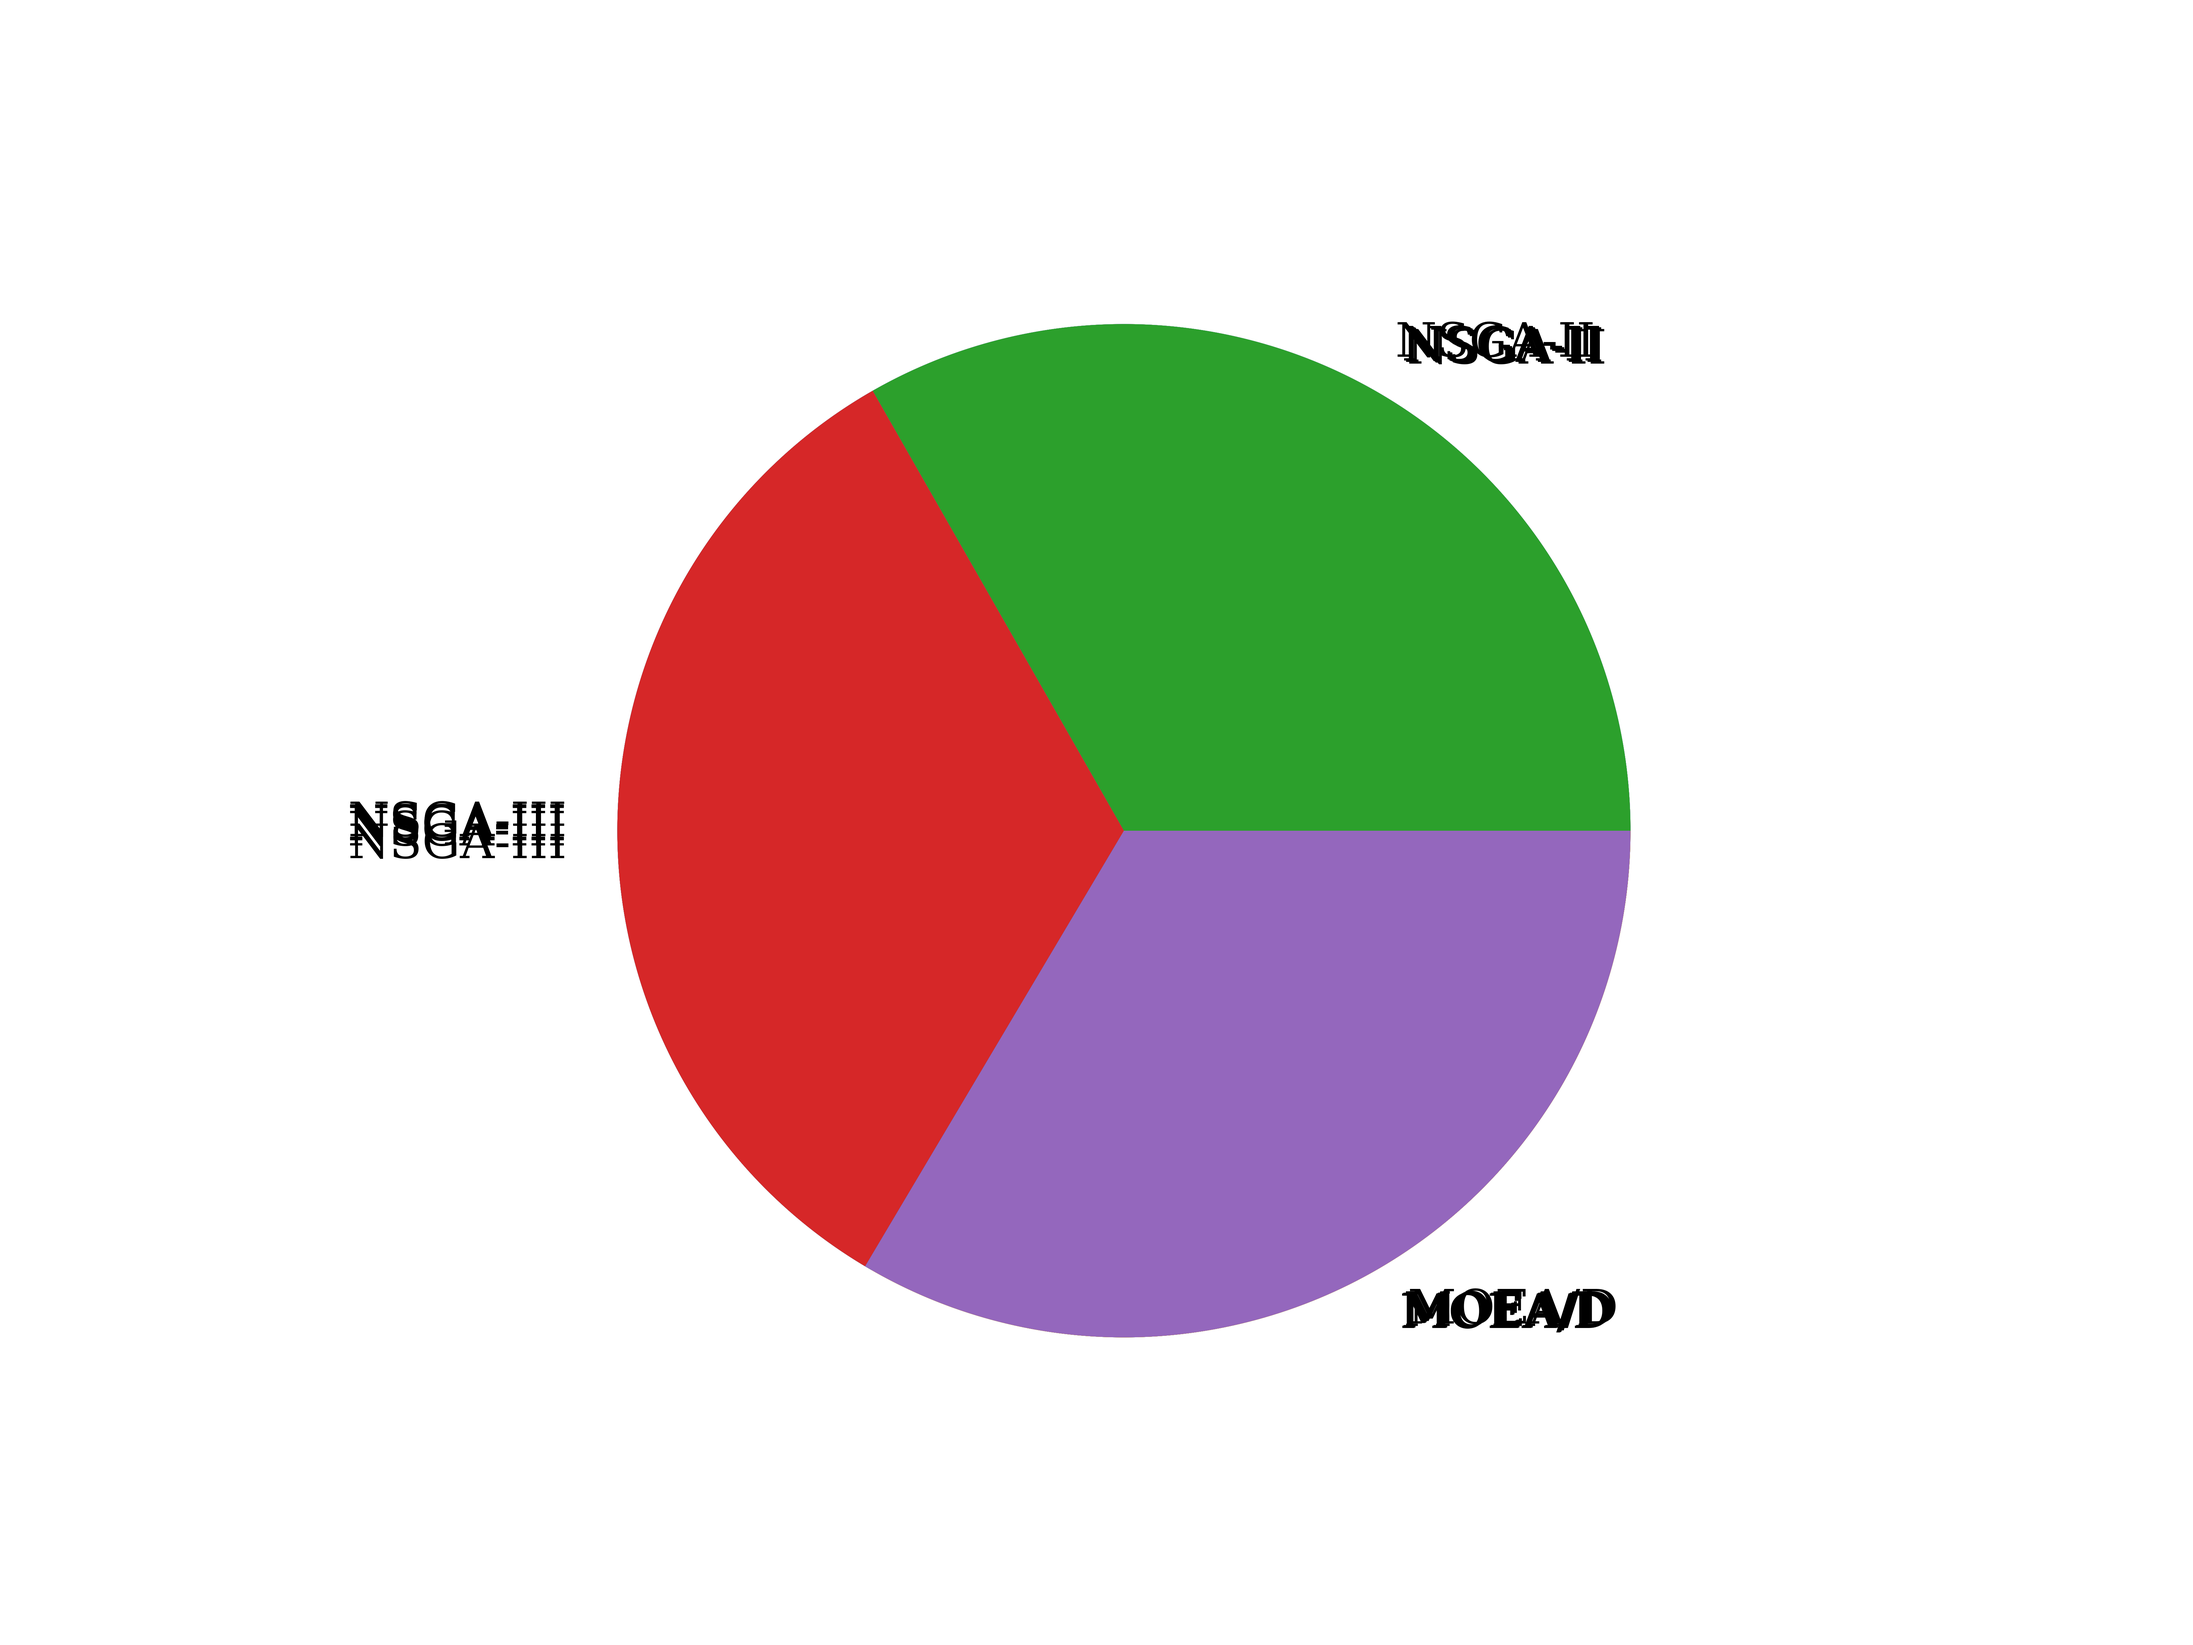
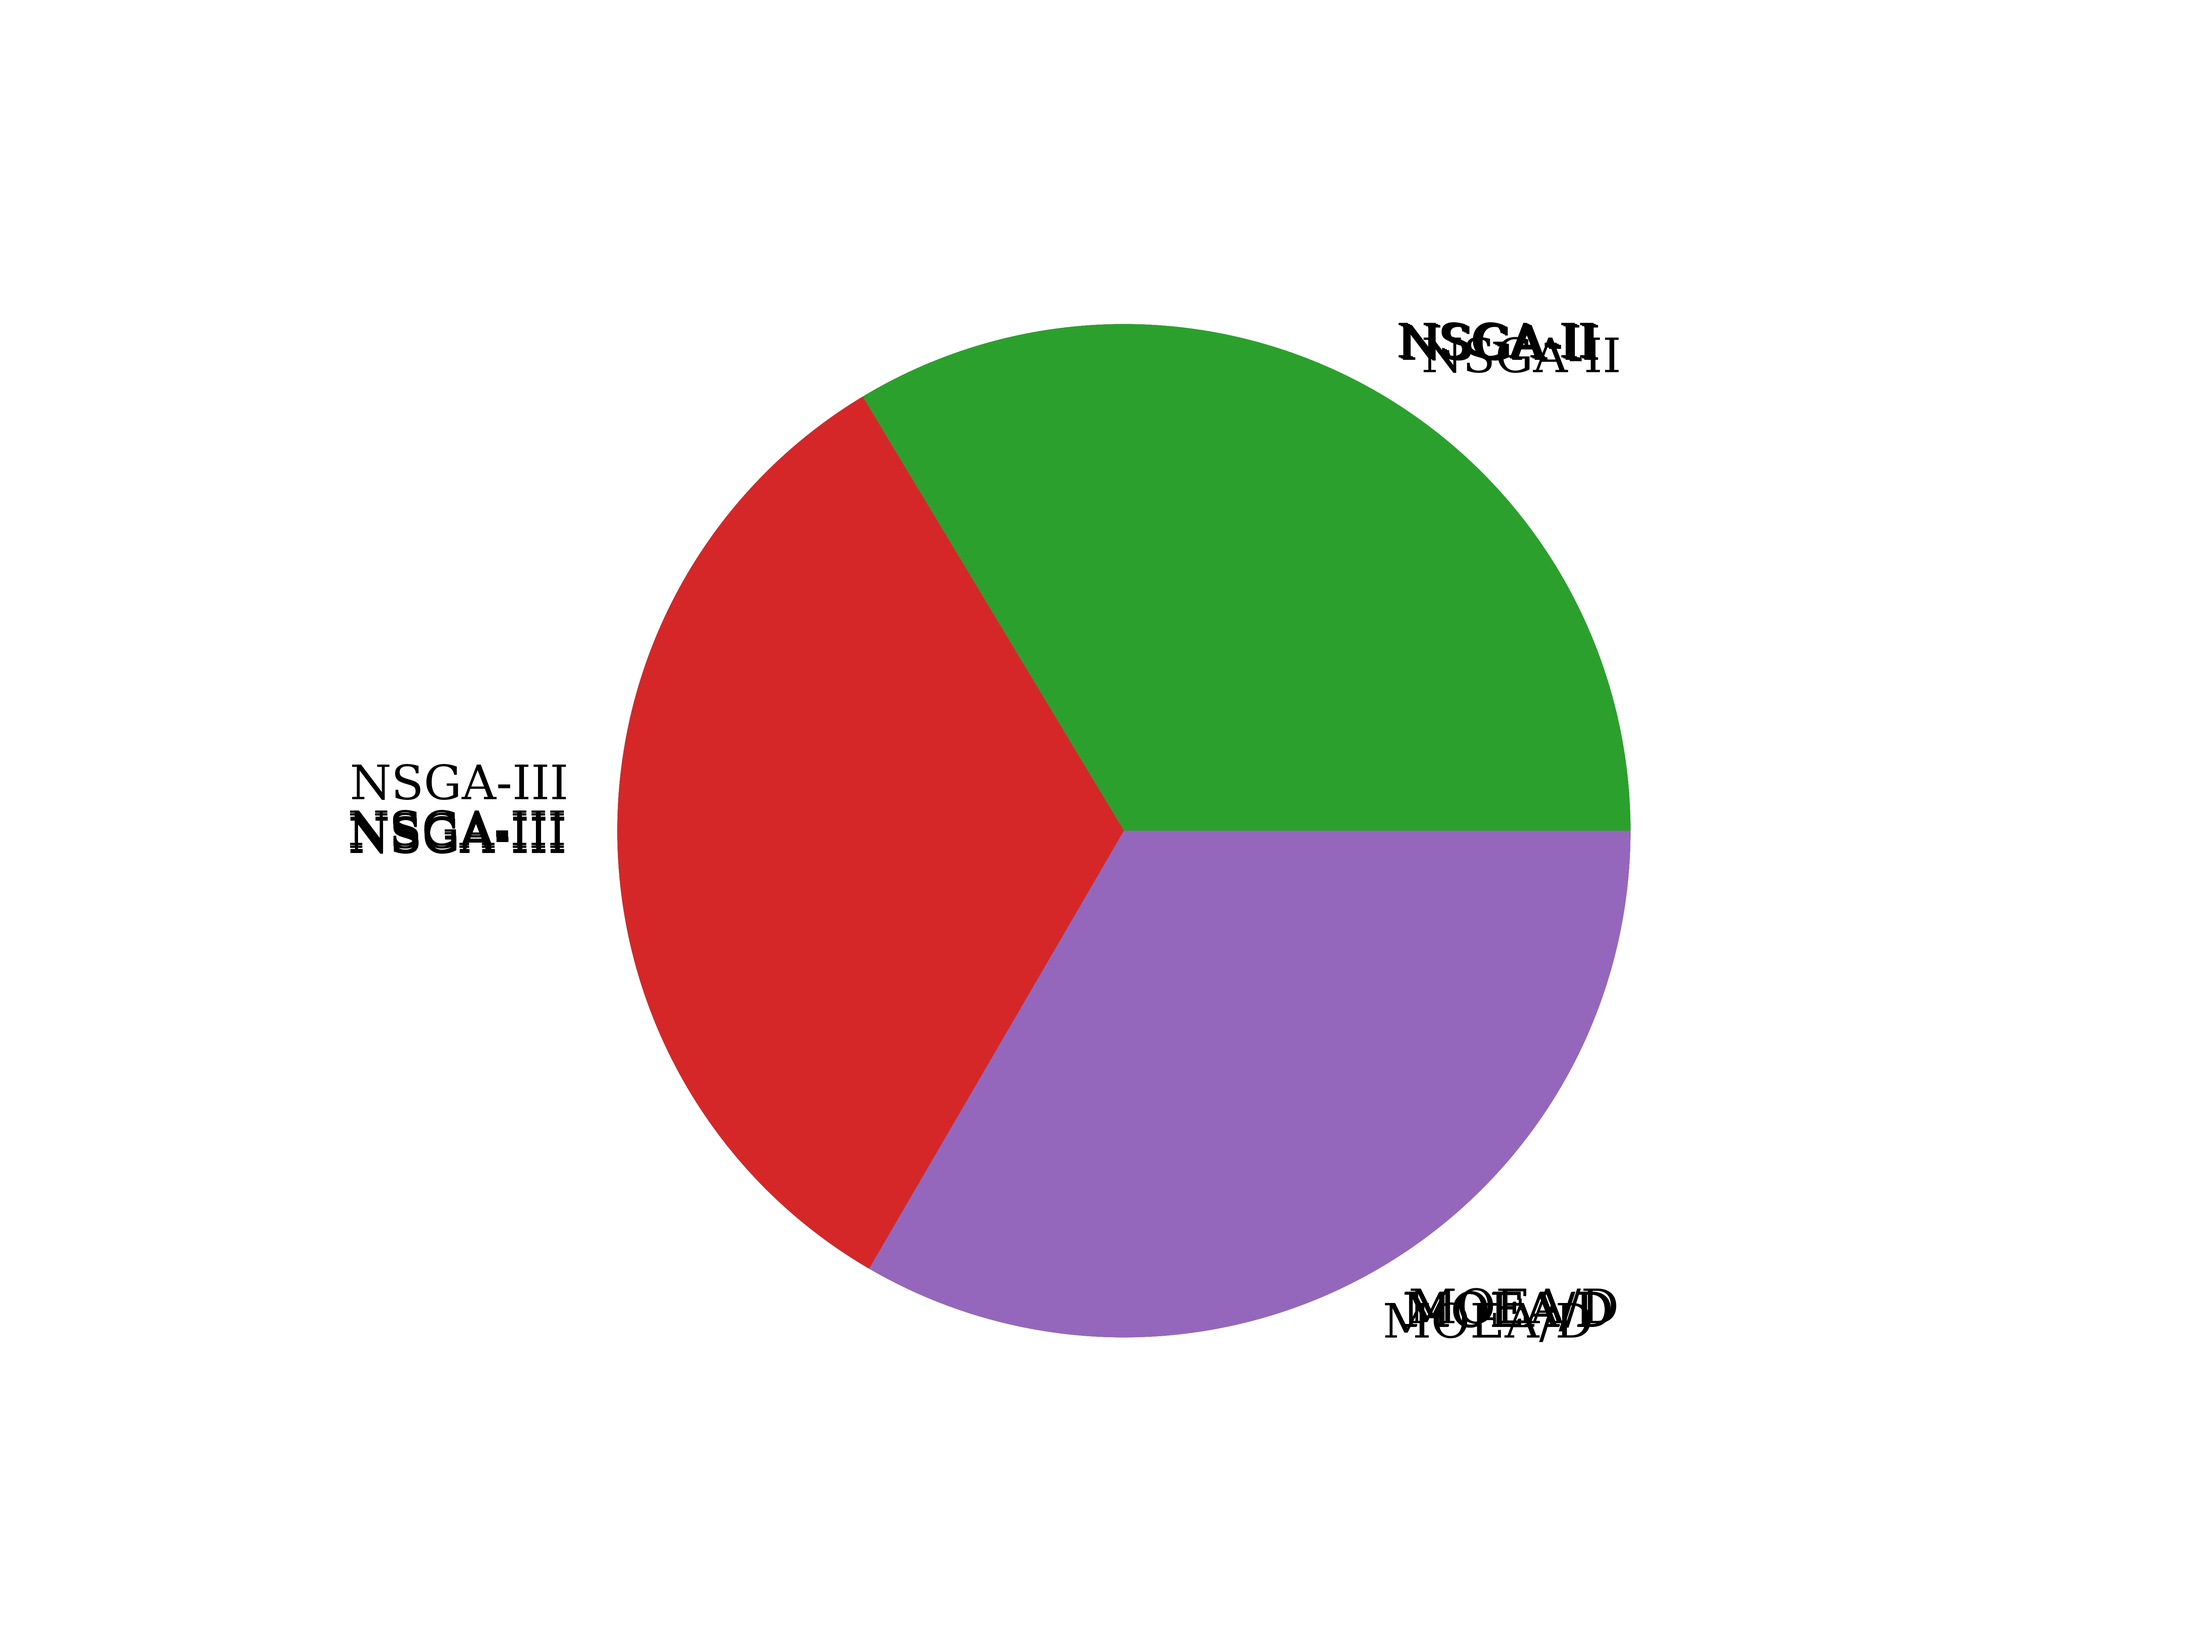
0.8.7.5

diff --git a/metric_visualizer/metric_visualizer.py b/metric_visualizer/metric_visualizer.py
@@ -181,7 +181,11 @@ class MetricVisualizer:
         return self
 
     def box_plot(
-        self, by="trial", engine="matplotlib", save_path=None, show=True, **kwargs
+        self, by="trial",
+            engine="matplotlib",
+            save_path=None,
+            show=True,
+            **kwargs
     ):
         """
         Draw a box plot based on the metric name and trial name.
@@ -328,7 +332,12 @@ class MetricVisualizer:
             return save_path
 
     def violin_plot(
-        self, by="trial", engine="matplotlib", save_path=None, show=True, **kwargs
+        self,
+            by="trial",
+            engine="matplotlib",
+            save_path=None,
+            show=True,
+            **kwargs
     ):
         """
         Draw a violin plot based on the metric name and trial name.
@@ -465,7 +474,12 @@ class MetricVisualizer:
             return save_path
 
     def pie_plot(
-        self, by="trial", engine="matplotlib", save_path=None, show=True, **kwargs
+        self,
+            by="trial",
+            engine="matplotlib",
+            save_path=None,
+            show=True,
+            **kwargs
     ):
         """
         Draw a pie plot based on the metric name and trial name.
@@ -549,7 +563,12 @@ class MetricVisualizer:
             return save_path
 
     def scatter_plot(
-        self, by="trial", engine="matplotlib", save_path=None, show=True, **kwargs
+        self,
+            by="trial",
+            engine="matplotlib",
+            save_path=None,
+            show=True,
+            **kwargs
     ):
         """
         Draw a scatter plot based on the metric name and trial name.
@@ -673,7 +692,12 @@ class MetricVisualizer:
             return save_path
 
     def trajectory_plot(
-        self, by="trial", engine="matplotlib", save_path=None, show=True, **kwargs
+        self,
+            by="trial",
+            engine="matplotlib",
+            save_path=None,
+            show=True,
+            **kwargs
     ):
         """
         Draw a trajectory plot based on the metric name and trial name.
@@ -818,7 +842,12 @@ class MetricVisualizer:
             return save_path
 
     def bar_plot(
-        self, by="trial", engine="matplotlib", save_path=None, show=True, **kwargs
+        self,
+            by="trial",
+            engine="matplotlib",
+            save_path=None,
+            show=True,
+            **kwargs
     ):
         """
         Draw a bar plot based on the metric name and trial name.
@@ -1137,7 +1166,12 @@ class MetricVisualizer:
         )
 
     def sk_rank_plot(
-        self, plot_type="box", engine="matplotlib", save_path=None, show=True, **kwargs
+        self,
+            plot_type="box",
+            engine="matplotlib",
+            save_path=None,
+            show=True,
+            **kwargs
     ):
         """
         Draw a rank plot based on the metric name and trial name.
@@ -1331,17 +1365,19 @@ class MetricVisualizer:
         if filename:
             print("Warning: filename is deprecated, please use save_path instead.")
 
-        summary_str = "\n ----------------------------------- Metric Visualizer ----------------------------------- \n"
 
         table_data, header = self._get_table_data(**kwargs)
 
-        summary_str += tabulate(
+        summary_str = tabulate(
             table_data, headers=header, numalign="center", tablefmt="fancy_grid"
         )
-        summary_str += "\n -------------------- https://github.com/yangheng95/metric_visualizer --------------------\n"
-        summary_str += "\n -------------- You can use: metric_visualizer *.mv to visualize the metrics in any bash --------------\n"
+        logo = " Metric Visualizer "
+        url = " https://github.com/yangheng95/metric_visualizer "
+        _prefix = "\n"+"-" * ((len(summary_str.split("\n")[0])-len(logo))//2) + logo + "-" * ((len(summary_str.split("\n")[0])-len(logo))//2)+"\n"
+
+        _postfix = "\n" + "-" * ((len(summary_str.split("\n")[0])-len( url))//2) + url + "-" * ((len(summary_str.split("\n")[0])-len( url))//2) +"\n"
         if not no_print:
-            print(summary_str)
+            print(_prefix + summary_str + _postfix)
 
         if save_path:
             if not save_path.endswith(".summary.txt"):

diff --git a/metric_visualizer/__init__.py b/metric_visualizer/__init__.py
@@ -5,7 +5,7 @@
 # github: https://github.com/yangheng95
 # Copyright (C) 2021. All Rights Reserved.
 
-__version__ = "0.8.7.4"
+__version__ = "0.8.7.5"
 __name__ = "metric_visualizer"
 
 from .metric_visualizer import MetricVisualizer

diff --git a/setup.py b/setup.py
@@ -30,7 +30,7 @@ setup(
     # Choose your license
     license="MIT",
     install_requires=[
-        "matplotlib<3.6.0",
+        "matplotlib>=3.6.3",
         "tikzplotlib",
         "findfile",
         "scipy",
